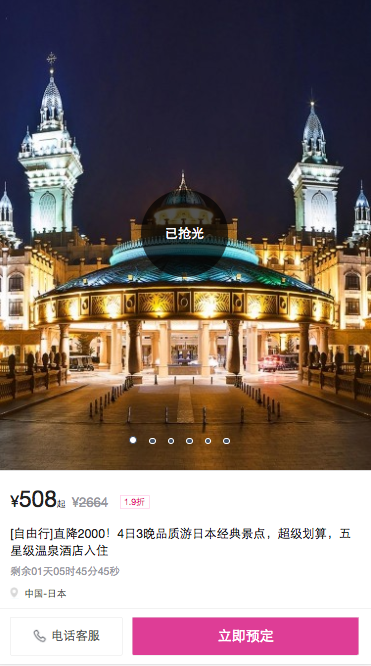
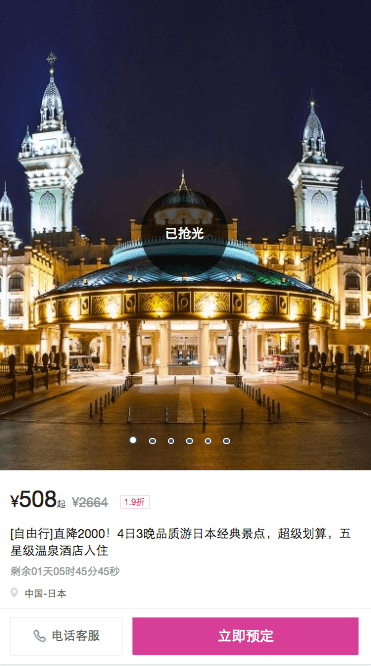
压缩图片；添加新笔记

diff --git a/2017/06/27/Vue自研篇/index.html b/2017/06/27/Vue自研篇/index.html
@@ -5,13 +5,22 @@
   
   <title>Vue自研篇 | guanlinwu</title>
   <meta name="viewport" content="width=device-width, initial-scale=1, maximum-scale=1">
-  <meta property="og:type" content="article">
+  <meta name="description" content="Vue是当前非常火热的前端框架之一，特别是vue2.0，强劲了不少。趁着做外包系统（Github代码），就用vue2.0 + vue-router + axios + vue-cli + element-ui + electron 去实践了一下。最终，代码用vue开发，然后打包成一个electron桌面应用程序。由于上传的代码没有完整的后端接口，所以自己用node + express写了一个个性化">
+<meta property="og:type" content="article">
 <meta property="og:title" content="Vue自研篇">
 <meta property="og:url" content="https://guanlinwu.github.io/2017/06/27/Vue自研篇/index.html">
 <meta property="og:site_name" content="guanlinwu">
-<meta property="og:updated_time" content="2017-06-27T08:31:35.000Z">
+<meta property="og:description" content="Vue是当前非常火热的前端框架之一，特别是vue2.0，强劲了不少。趁着做外包系统（Github代码），就用vue2.0 + vue-router + axios + vue-cli + element-ui + electron 去实践了一下。最终，代码用vue开发，然后打包成一个electron桌面应用程序。由于上传的代码没有完整的后端接口，所以自己用node + express写了一个个性化">
+<meta property="og:image" content="https://guanlinwu.github.io/images/vue_1.png">
+<meta property="og:image" content="https://guanlinwu.github.io/images/vue_2.png">
+<meta property="og:image" content="https://guanlinwu.github.io/images/vue_3.png">
+<meta property="og:image" content="https://guanlinwu.github.io/images/vue_4.png">
+<meta property="og:image" content="https://guanlinwu.github.io/images/vue_5.png">
+<meta property="og:updated_time" content="2017-06-27T14:26:53.000Z">
 <meta name="twitter:card" content="summary">
 <meta name="twitter:title" content="Vue自研篇">
+<meta name="twitter:description" content="Vue是当前非常火热的前端框架之一，特别是vue2.0，强劲了不少。趁着做外包系统（Github代码），就用vue2.0 + vue-router + axios + vue-cli + element-ui + electron 去实践了一下。最终，代码用vue开发，然后打包成一个electron桌面应用程序。由于上传的代码没有完整的后端接口，所以自己用node + express写了一个个性化">
+<meta name="twitter:image" content="https://guanlinwu.github.io/images/vue_1.png">
   
     <link rel="alternate" href="/atom.xml" title="guanlinwu" type="application/atom+xml">
   
@@ -33,9 +42,9 @@
   <div id="banner"></div>
   <div id="header-outer" class="outer">
     <div id="header-title" class="inner">
-      <h1 id="logo-wrap">
+      <!--<h1 id="logo-wrap">
         <a href="/" id="logo">guanlinwu</a>
-      </h1>
+      </h1>-->
       
     </div>
     <div id="header-inner" class="inner">
@@ -82,7 +91,17 @@
     
     <div class="article-entry" itemprop="articleBody">
       
-        
+        <p>Vue是当前非常火热的前端框架之一，特别是vue2.0，强劲了不少。<br>趁着做外包系统（<a href="https://github.com/guanlinwu/quanjian/tree/v2/frontend" target="_blank" rel="external">Github代码</a>），就用vue2.0 + vue-router + axios + vue-cli + element-ui + electron 去实践了一下。<br>最终，代码用vue开发，然后打包成一个electron桌面应用程序。<br>由于上传的代码没有完整的后端接口，所以自己用node + express写了一个个性化的假数据服务器。</p>
+<a id="more"></a>
+<h2 id="前端目录结构如下："><a href="#前端目录结构如下：" class="headerlink" title="前端目录结构如下："></a>前端目录结构如下：</h2><p><img src="/images/vue_1.png" alt="目录结构"></p>
+<h3 id="解释一下src目录"><a href="#解释一下src目录" class="headerlink" title="解释一下src目录"></a>解释一下src目录</h3><figure class="highlight plain"><table><tr><td class="gutter"><pre><div class="line">1</div><div class="line">2</div><div class="line">3</div><div class="line">4</div><div class="line">5</div><div class="line">6</div><div class="line">7</div><div class="line">8</div><div class="line">9</div><div class="line">10</div></pre></td><td class="code"><pre><div class="line">+ src</div><div class="line">    - api           管理接口medel层，每一个模块一个文件，如会员管理模块，商品管理模块</div><div class="line">    - components    故名思义，就是存放组件的文件，里面还会细分</div><div class="line">    - router        路由管理</div><div class="line">    - styles        基础样式管理</div><div class="line">    - utils         工具函数，如重新封装的axios, localstorage</div><div class="line">    - views         管理每个页面的容器</div><div class="line">    - App.vue       入口组件大容器</div><div class="line">    - main.js       入口js</div><div class="line">    - assets        暂时存放图片s</div></pre></td></tr></table></figure>
+<h2 id="假数据服务器是用express写的"><a href="#假数据服务器是用express写的" class="headerlink" title="假数据服务器是用express写的"></a>假数据服务器是用express写的</h2><p><a href="https://github.com/guanlinwu/quanjian/tree/v2/frontend/mock" target="_blank" rel="external">代码地址</a><br>感觉写得有点像模块化，每个文件对应每部分的接口，用node去读取该文件夹的文件，把所有接口整理成一个对象，然后用一个工厂函数统一处理接口。后续继续补充</p>
+<h2 id="总结"><a href="#总结" class="headerlink" title="总结"></a>总结</h2><p>之前有看过vue语法，也有看它双向绑定的原理（核心函数Object.defineproperty），如今在一个外包中实践了vue全家桶，学习了一遍语法和关键函数，也了解了vue的一些生命周期，学习了如何使用vue组件，也学习了饿了么的element-ui框架，根据项目情况去定义文件夹和管理架构，后端接口采用的是restful架构，合作起来效率极高。</p>
+<h2 id="部分界面："><a href="#部分界面：" class="headerlink" title="部分界面："></a>部分界面：</h2><p><img src="/images/vue_2.png" alt="登陆"></p>
+<p><img src="/images/vue_3.png" alt="会员"></p>
+<p><img src="/images/vue_4.png" alt="销售"></p>
+<p><img src="/images/vue_5.png" alt="销售"></p>
+
       
     </div>
     <footer class="article-footer">

diff --git a/index.html b/index.html
@@ -32,9 +32,9 @@
   <div id="banner"></div>
   <div id="header-outer" class="outer">
     <div id="header-title" class="inner">
-      <h1 id="logo-wrap">
+      <!--<h1 id="logo-wrap">
         <a href="/" id="logo">guanlinwu</a>
-      </h1>
+      </h1>-->
       
     </div>
     <div id="header-inner" class="inner">
@@ -83,6 +83,11 @@
     
     <div class="article-entry" itemprop="articleBody">
       
+        <p>Vue是当前非常火热的前端框架之一，特别是vue2.0，强劲了不少。<br>趁着做外包系统（<a href="https://github.com/guanlinwu/quanjian/tree/v2/frontend" target="_blank" rel="external">Github代码</a>），就用vue2.0 + vue-router + axios + vue-cli + element-ui + electron 去实践了一下。<br>最终，代码用vue开发，然后打包成一个electron桌面应用程序。<br>由于上传的代码没有完整的后端接口，所以自己用node + express写了一个个性化的假数据服务器。</p>
+        
+          <p class="article-more-link">
+            <a href="/2017/06/27/Vue自研篇/#more">阅读全文  🤔</a>
+          </p>
         
       
     </div>

diff --git a/2017/06/24/唯品会的专题活动篇/index.html b/2017/06/24/唯品会的专题活动篇/index.html
@@ -41,9 +41,9 @@
   <div id="banner"></div>
   <div id="header-outer" class="outer">
     <div id="header-title" class="inner">
-      <h1 id="logo-wrap">
+      <!--<h1 id="logo-wrap">
         <a href="/" id="logo">guanlinwu</a>
-      </h1>
+      </h1>-->
       
     </div>
     <div id="header-inner" class="inner">

diff --git a/2017/06/26/唯品会项目篇/index.html b/2017/06/26/唯品会项目篇/index.html
@@ -41,9 +41,9 @@
   <div id="banner"></div>
   <div id="header-outer" class="outer">
     <div id="header-title" class="inner">
-      <h1 id="logo-wrap">
+      <!--<h1 id="logo-wrap">
         <a href="/" id="logo">guanlinwu</a>
-      </h1>
+      </h1>-->
       
     </div>
     <div id="header-inner" class="inner">

diff --git a/2017/06/27/react自研篇/index.html b/2017/06/27/react自研篇/index.html
@@ -42,9 +42,9 @@
   <div id="banner"></div>
   <div id="header-outer" class="outer">
     <div id="header-title" class="inner">
-      <h1 id="logo-wrap">
+      <!--<h1 id="logo-wrap">
         <a href="/" id="logo">guanlinwu</a>
-      </h1>
+      </h1>-->
       
     </div>
     <div id="header-inner" class="inner">

diff --git a/archives/2017/06/index.html b/archives/2017/06/index.html
@@ -32,9 +32,9 @@
   <div id="banner"></div>
   <div id="header-outer" class="outer">
     <div id="header-title" class="inner">
-      <h1 id="logo-wrap">
+      <!--<h1 id="logo-wrap">
         <a href="/" id="logo">guanlinwu</a>
-      </h1>
+      </h1>-->
       
     </div>
     <div id="header-inner" class="inner">

diff --git a/archives/2017/index.html b/archives/2017/index.html
@@ -32,9 +32,9 @@
   <div id="banner"></div>
   <div id="header-outer" class="outer">
     <div id="header-title" class="inner">
-      <h1 id="logo-wrap">
+      <!--<h1 id="logo-wrap">
         <a href="/" id="logo">guanlinwu</a>
-      </h1>
+      </h1>-->
       
     </div>
     <div id="header-inner" class="inner">

diff --git a/archives/index.html b/archives/index.html
@@ -32,9 +32,9 @@
   <div id="banner"></div>
   <div id="header-outer" class="outer">
     <div id="header-title" class="inner">
-      <h1 id="logo-wrap">
+      <!--<h1 id="logo-wrap">
         <a href="/" id="logo">guanlinwu</a>
-      </h1>
+      </h1>-->
       
     </div>
     <div id="header-inner" class="inner">

diff --git a/tags/工作/index.html b/tags/工作/index.html
@@ -32,9 +32,9 @@
   <div id="banner"></div>
   <div id="header-outer" class="outer">
     <div id="header-title" class="inner">
-      <h1 id="logo-wrap">
+      <!--<h1 id="logo-wrap">
         <a href="/" id="logo">guanlinwu</a>
-      </h1>
+      </h1>-->
       
     </div>
     <div id="header-inner" class="inner">

diff --git a/tags/项目/index.html b/tags/项目/index.html
@@ -32,9 +32,9 @@
   <div id="banner"></div>
   <div id="header-outer" class="outer">
     <div id="header-title" class="inner">
-      <h1 id="logo-wrap">
+      <!--<h1 id="logo-wrap">
         <a href="/" id="logo">guanlinwu</a>
-      </h1>
+      </h1>-->
       
     </div>
     <div id="header-inner" class="inner">
